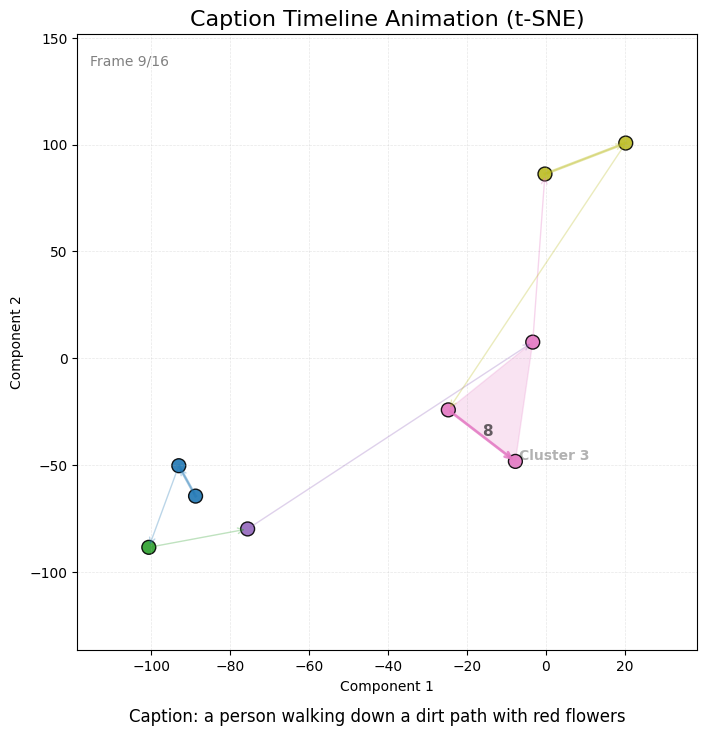
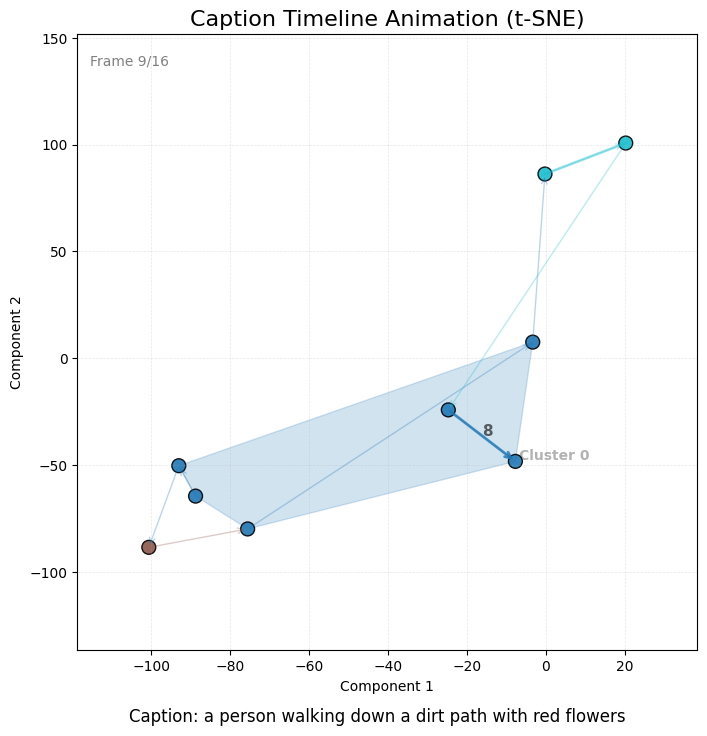
Ready for GPT API modification

diff --git a/BLIP2Vid2.py b/BLIP2Vid2.py
@@ -8,34 +8,46 @@ from transformers import BlipProcessor, BlipForConditionalGeneration
 from utils import *
 
 # === Global Settings ===
-VIDEO_SELECTION_MODE = "single"  # Options: "all", "single"
-SELECTED_VIDEO_INDEX = 3
-DETAIL_MODE = True
-SUMMARY_MODEL = "majority"
+VIDEO_SELECTION_MODE        = "single"
+SELECTED_VIDEO_INDEX        = 3
+DETAIL_MODE                 = True
+SUMMARY_MODEL               = "majority"   # bart |  distilbart | gpt2 | tinyllama | majority
+TRANSITION_MODEL            = "majority"       #  gpt2 | tinyllama | majority
+TRANSITION_PROMPT_TEMPLATE  = (
+    "Describe the visual change between the two scenes below in ONE "
+    "concise sentence.\n\nPrevious: {prev}\nCurrent: {curr}\nTransition:"
+)
+GENERATE_GROUP_TRANSITIONS  = True
 
 
-def load_summarizer(device):
-    from transformers import AutoTokenizer, AutoModelForCausalLM, BitsAndBytesConfig, pipeline
+STORY_OUTPUT_MODE = "verbose"   #  story | verbose 
 
-    if SUMMARY_MODEL == "bart":
+
+
+
+def load_summarizer(device, model_name):
+    from transformers import AutoTokenizer, AutoModelForCausalLM, pipeline
+
+    if model_name == "bart":
         summarizer = pipeline("summarization", model="facebook/bart-large-cnn", device=0 if torch.cuda.is_available() else -1)
         return summarizer, None, None
 
-    elif SUMMARY_MODEL == "gpt2":
+    elif model_name == "distilbart":
+        summarizer = pipeline("summarization", model="sshleifer/distilbart-cnn-12-6", device=0 if torch.cuda.is_available() else -1)
+        return summarizer, None, None
+
+    elif model_name == "gpt2":
         from transformers import GPT2LMHeadModel, GPT2Tokenizer
         tokenizer = GPT2Tokenizer.from_pretrained("gpt2")
         tokenizer.pad_token = tokenizer.eos_token
         model = GPT2LMHeadModel.from_pretrained("gpt2").to(device)
 
-    elif SUMMARY_MODEL == "tinyllama":
+    elif model_name == "tinyllama":
         tokenizer = AutoTokenizer.from_pretrained("TinyLlama/TinyLlama-1.1B-Chat-v1.0")
         tokenizer.pad_token = tokenizer.eos_token
         model = AutoModelForCausalLM.from_pretrained("TinyLlama/TinyLlama-1.1B-Chat-v1.0").to(device)
-
-    elif SUMMARY_MODEL == "distilbart":
-        summarizer = pipeline("summarization", model="sshleifer/distilbart-cnn-12-6", device=0 if torch.cuda.is_available() else -1)
-        return summarizer, None, None
-    elif SUMMARY_MODEL == "majority":
+    
+    elif model_name == "majority":
         def summarizer_stub(text):
             return text.split("\n")[0]  # fallback stub
         return summarizer_stub, None, None
@@ -48,7 +60,7 @@ def load_summarizer(device):
             "1. Read the following scene descriptions exactly as written.\n"
             "2. Identify only the nouns and adjectives present in the descriptions.\n"
             "3. Do NOT add anything that is not mentioned in the text.\n"
-            "4. Combine the descriptions into one clear sentence using only the allowed words.\n\n"
+            "4. Combine the descriptions into one clear sentence.\n\n"
             "Captions:\n" + text + "\n\nSummary:"
         )
 
@@ -89,36 +101,66 @@ def summarize_captions(captions, summarizer, summary_model):
     end_summary_time = time.time()
     return summary, end_summary_time - start_summary_time
 
-def summarize_transition(prev_caption, curr_caption):
-    # Only used if SUMMARY_MODEL in ["gpt2", "llama"]
-    if SUMMARY_MODEL not in ["gpt2", "llama"]:
-        raise ValueError("Transition summarization is only supported for gpt2 or llama.")
-    
-    PROMPT_STYLE = (
-        "\n\nDescribe the visual change between the two scenes below "
-        "in one concise sentence. \n\nPrevious: {prev}\nCurrent: {curr}\nTransition:"
-    )
+def summarize_transition(prev_caption, curr_caption,
+                         summarizer_fn, model_choice,
+                         prompt_template=TRANSITION_PROMPT_TEMPLATE):
+    """Return a one‑sentence bridge between two scene captions."""
+    # Fast path for the 'majority' stub
+    if model_choice == "majority":
+        return f"The scene shifts from “{prev_caption}” to “{curr_caption}.”"
 
-    prompt = PROMPT_STYLE.format(prev=prev_caption, curr=curr_caption)
-    inputs = tokenizer.encode(prompt, return_tensors="pt", truncation=True).to(model.device)
-    attention_mask = torch.ones_like(inputs)
+    prompt = prompt_template.format(prev=prev_caption, curr=curr_caption)
 
-    outputs = model.generate(
-        inputs,
-        attention_mask=attention_mask,
-        max_new_tokens=60,
-        num_return_sequences=1,
-        no_repeat_ngram_size=2,
-        pad_token_id=tokenizer.eos_token_id
-    )
+    if model_choice in ["bart", "distilbart"]:
+        max_len = min(60, max(10, int(len(prompt.split()) * 1.2)))
+        return summarizer_fn(prompt,
+                             max_length=max_len,
+                             min_length=6,
+                             do_sample=False)[0]["summary_text"].strip()
 
-    decoded = tokenizer.decode(outputs[0], skip_special_tokens=True)
-    if "Transition:" in decoded:
-        transition = decoded.split("Transition:")[-1].strip()
+    # gpt‑style models (gpt2, llama, tinyllama …)
+    result = summarizer_fn(prompt)
+    if "Transition:" in result:
+        result = result.split("Transition:")[-1]
+    return result.strip().split(".")[0] + "."
+
+def output_story_set(group_summaries, group_transitions, mode=STORY_OUTPUT_MODE):
+    """
+    Print the narrative in either:
+      • 'story'    first group summary, then every bridge on its own line
+      • 'verbose'  group summary, then its bridge, each on separate lines
+    """
+    if not group_summaries:
+        print("ERROR:  No groups to narrate.")
+        return
+
+    if mode.lower() == "story":
+        print(f"\n{MAGENTA}=== Final Story ==={RESET}")
+        print(group_summaries[0])                     # first scene
+        for _, _, bridge in group_transitions:        # each bridge
+            print(bridge)
+
+    elif mode.lower() == "verbose":
+        print(f"\n{MAGENTA}=== Verbose Story ==={RESET}")
+        for i, summary in enumerate(group_summaries):
+            print(summary)                            # group summary
+            if i < len(group_transitions):            # its bridge (if any)
+                print(group_transitions[i][2])
     else:
-        transition = decoded.strip()
+        raise ValueError("STORY_OUTPUT_MODE must be 'story' or 'verbose'.")
 
-    return transition.split(".")[0].strip() + "."
+
+
+def summarize_group(group, summarizer, summary_model):
+    """
+    Return a one‑sentence description of an entire caption group.
+    Falls back to the group's only caption if it’s a singleton.
+    """
+    if len(group) == 1:
+        return group[0]
+    summary, _ = summarize_captions(group, summarizer, summary_model)
+    return summary.strip()
+
 
 def compare_summarizers(group_text, bart_summarizer, llama_summarizer, group_idx, distilbart_summarizer=None):
     if SUMMARY_MODEL == "majority":
@@ -140,15 +182,11 @@ def compare_summarizers(group_text, bart_summarizer, llama_summarizer, group_idx
     llama_result = llama_summarizer(joined)
 
     print(f"\n{YELLOW}Summarizing Group {group_idx+1}:{RESET}")
+    print(f"Majority: {get_most_frequent_caption(group_text)}")
     print(f"{CYAN}BART Summary:{RESET}  {bart_result}")
     if distilbart_result:
         print(f"{DARK_GREEN}DistilBART Summary:{RESET} {distilbart_result}")
     print(f"{MAGENTA}LLAMA Summary:{RESET} {llama_result}")
-
-
-    
-
-
 
 
 # Load BART-CNN summarizer (for comparison)
@@ -170,18 +208,25 @@ def main():
     """
 
     global summarizer, tokenizer, model
+    global trans_summarizer, trans_tokenizer, trans_model
 
     # Set up device, BLIP processor/model, summarizer
     device = "cuda" if torch.cuda.is_available() else "cpu"
     processor = BlipProcessor.from_pretrained("Salesforce/blip-image-captioning-base", use_fast=True)
     blip_model = BlipForConditionalGeneration.from_pretrained("Salesforce/blip-image-captioning-base").to(device)
-    summarizer, tokenizer, model = load_summarizer(device)
+    
+    # Caption / group summariser
+    summarizer, tokenizer, model = load_summarizer(device, SUMMARY_MODEL)
+
+    # Transition generator
+    trans_summarizer, trans_tokenizer, trans_model = load_summarizer(device, TRANSITION_MODEL)
+
 
     # 1) Model for on‐the‐fly semantic checks
     from sentence_transformers import SentenceTransformer, util
     embedding_model = SentenceTransformer('all-MiniLM-L6-v2')
     # Adjust this threshold if you want more or fewer "significant changes"
-    similarity_threshold = 0.85
+    similarity_threshold = 0.61
 
     interval = 1
     BLIP_OUTPUT_DIR = os.path.join(VIDEO_PATH, "Output", "BLIP")
@@ -276,6 +321,34 @@ def main():
             else:
                 print(f"{YELLOW}Skipping summarization for Group {idx+1} (only one caption).{RESET}")
 
+        
+        group_summaries = [
+            summarize_group(g, summarizer, SUMMARY_MODEL) for g in grouped_captions
+        ]
+
+        # Optionally build transitions BETWEEN those summaries
+        group_transitions = []
+        if GENERATE_GROUP_TRANSITIONS and len(group_summaries) > 1:
+            for prev, curr in zip(group_summaries[:-1], group_summaries[1:]):
+                if TRANSITION_MODEL in ["gpt2", "tinyllama"]:
+                    bridge = summarize_transition(prev, curr,trans_summarizer, TRANSITION_MODEL)
+
+                else:
+                    # Fallback: plain template so we don't need a generative model
+                    bridge = f"The scene shifts from “{prev}” to “{curr}.”"
+                group_transitions.append((prev, curr, bridge))
+
+            # Pretty‑print
+            print(f"\n{MAGENTA}=== Group-level Transitions ==={RESET}")
+            for i, (_, _, t) in enumerate(group_transitions, 1):
+                print(f"{i}. {t}")
+
+        if group_transitions:
+            save_transitions_csv(
+                summary_output_dir,
+                video_filename.replace(".mp4", "_group"),
+                group_transitions
+            )
 
         # Summarization logic
         mean_time = statistics.mean(frame_times)
@@ -315,6 +388,8 @@ def main():
             print_unique_transitions(transitions)
 
         print_video_summary(final_summary, total_stats)
+
+        output_story_set(group_summaries, group_transitions, STORY_OUTPUT_MODE)
 
         # Condense all the final captions into clusters (existing function in utils)
         cluster_map = generate_cluster_map(captions, threshold = similarity_threshold)
